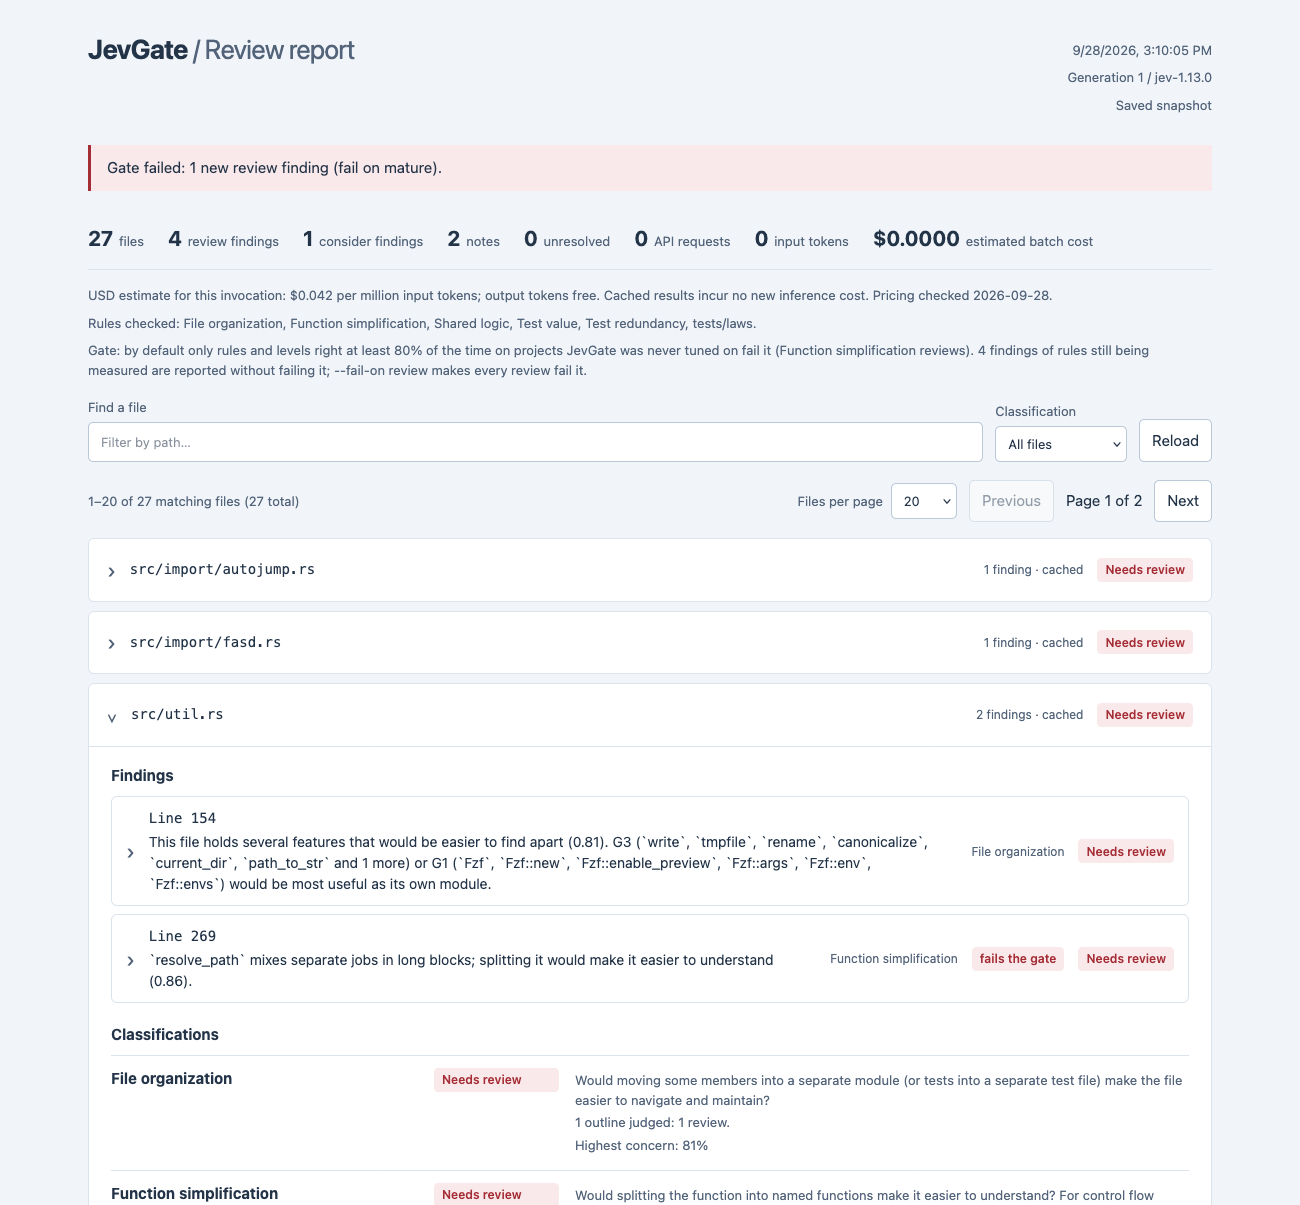
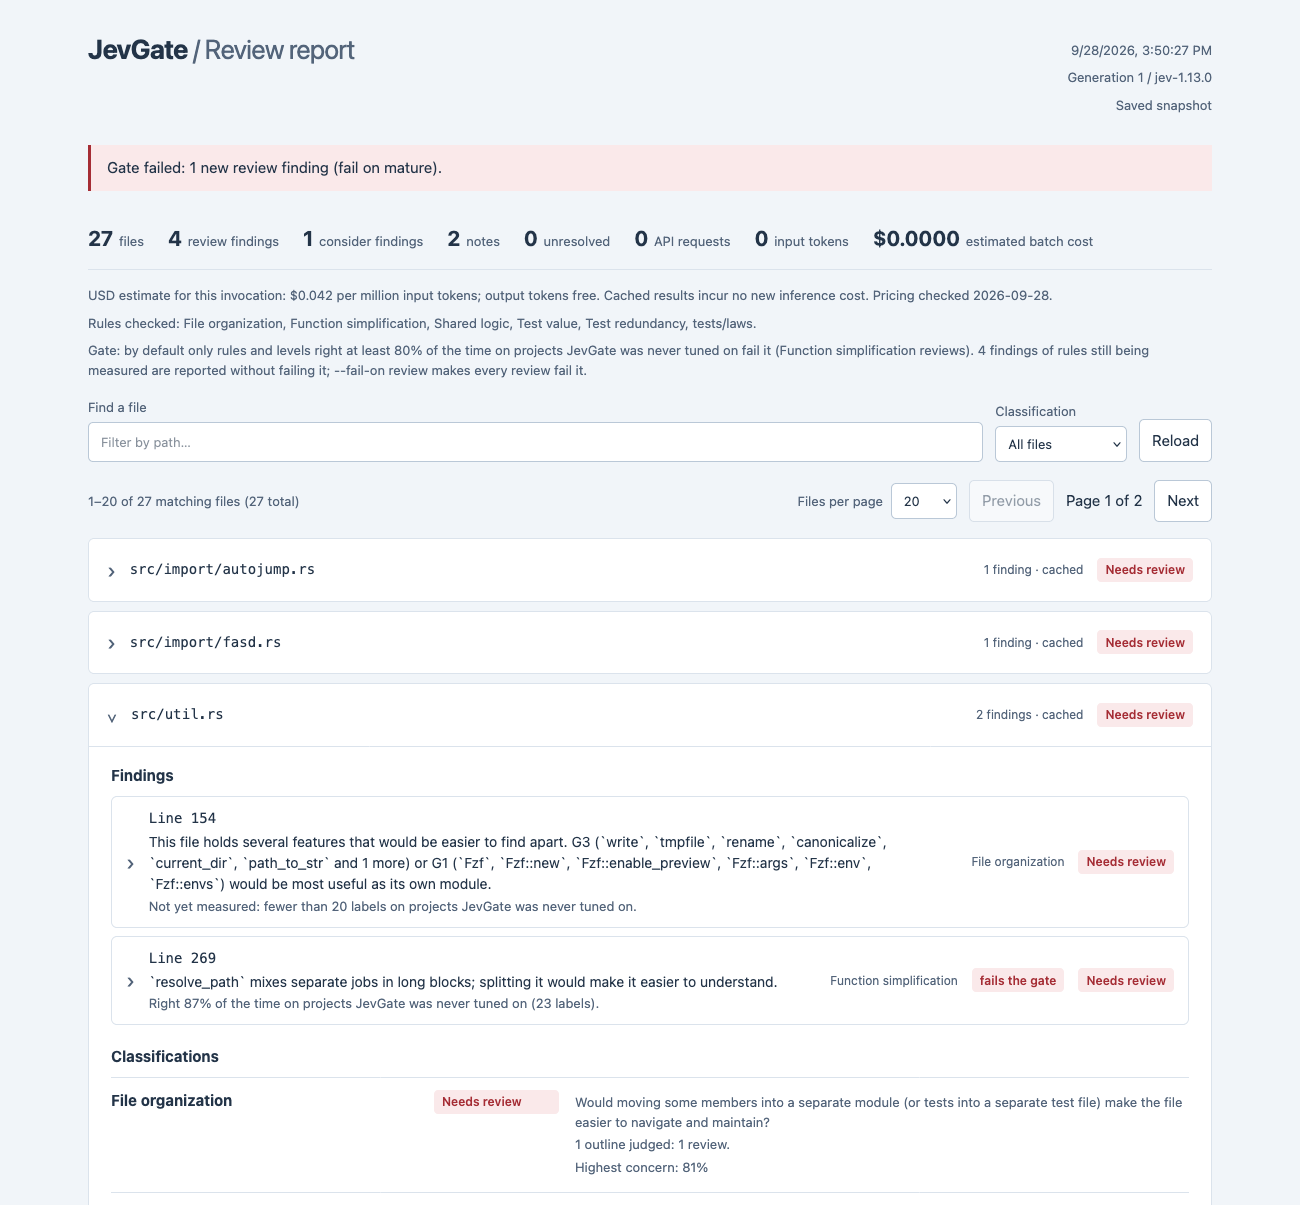
Show 0.28's output in the README and link the accuracy page
The README's images showed 0.26's output, whose messages end in a probability; 0.28 ends each review and consider with how often findings of its rule and level were right. Both images are regenerated from this version's build, replayed from the corpus's answer cache on zoxide at 09a18b4 (0 requests), with the scripts in plans/readme-images. The README and the site's introduction link the accuracy page after the blocking level's precision and give the check on 27 public projects (80 of 93).

diff --git a/README.md b/README.md
@@ -7,11 +7,11 @@
 
 **JevGate is a code-review gate. It asks small, precise questions about your code and turns the answers into findings you can act on.**
 
-JevGate parses your repository locally and builds small units of evidence: a function, a file outline, a pair of copies, a test, a documentation section. It asks [TypeSafe Jev](https://docs.typesafe.ai) short, typed questions about each one. Code, not a chat model, combines the answers into a verdict. Each finding has a location, how often findings like it were right and a concrete next step, so an agent or CI job can act on it and a person can check it quickly. By default the gate fails only on the rules and levels measured right at least 80% of the time on projects JevGate was never tuned on: among the default rules, function-simplification reviews, right 20 of the 23 times they were labeled there (87%).
+JevGate parses your repository locally and builds small units of evidence: a function, a file outline, a pair of copies, a test, a documentation section. It asks [TypeSafe Jev](https://docs.typesafe.ai) short, typed questions about each one. Code, not a chat model, combines the answers into a verdict. Each finding has a location, how often findings like it were right and a concrete next step, so an agent or CI job can act on it and a person can check it quickly. By default the gate fails only on the rules and levels measured right at least 80% of the time on projects JevGate was never tuned on: among the default rules, function-simplification reviews, right 20 of the 23 times they were labeled there (87%), and 80 of 93 times on 27 more public projects ([accuracy](https://tech-byte-frontier.github.io/jevgate/accuracy.html)).
 
-![JevGate's terminal output on zoxide: the gate fails on 1 function-simplification review (a function mixing separate jobs); 3 more reviews (a file holding several features, two sets of importers repeating the same steps) and a consider (branching that hides a main path) are reported without failing it, since their rules and levels are still being measured](site/src/images/terminal.svg)
+![JevGate's terminal output on zoxide: the gate fails on 1 function-simplification review (a function mixing separate jobs); 3 more reviews (a file holding several features, two sets of importers repeating the same steps) and a consider (branching that hides a main path) are reported without failing it, since their rules and levels are still being measured; each finding ends with how often findings of its rule and level were right](site/src/images/terminal.svg)
 
-JevGate 0.26.0 on [zoxide](https://github.com/ajeetdsouza/zoxide/tree/09a18b4424b3f1033094ffd97da6d47585e38259), rerun from its answer cache, so it cost nothing.
+JevGate 0.28.0 on [zoxide](https://github.com/ajeetdsouza/zoxide/tree/09a18b4424b3f1033094ffd97da6d47585e38259), rerun from its answer cache, so it cost nothing.
 
 **[Documentation](https://tech-byte-frontier.github.io/jevgate/)** · [Rules](https://tech-byte-frontier.github.io/jevgate/reference/rules.html) · [Configuration](https://tech-byte-frontier.github.io/jevgate/configuration.html) · [CI](https://tech-byte-frontier.github.io/jevgate/ci.html) · [Troubleshooting](https://tech-byte-frontier.github.io/jevgate/troubleshooting.html) · [Changelog](CHANGELOG.md)
 
@@ -50,7 +50,7 @@ jevgate init --agent claude               # check each edit and turn of Claude C
 
 `jevgate check --report` writes the same findings to a local dashboard you can filter by path and classification, with each file's findings, undecided units and the answers behind them:
 
-![JevGate's HTML report on zoxide: the gate's result and what fails it by default, totals for files, findings, notes and cost, then a list of files by classification, with src/util.rs open to show its two review findings, the one that fails the gate marked, and how each rule classified the file](site/src/images/report.png)
+![JevGate's HTML report on zoxide: the gate's result and what fails it by default, totals for files, findings, notes and cost, then a list of files by classification, with src/util.rs open to show its two review findings, the one that fails the gate marked, each with how often findings like it were right, and how each rule classified the file](site/src/images/report.png)
 
 `jevgate --help` gives the workflow, exit codes, files and environment, and `jevgate check --help` explains each flag and the JSON report. In a coding agent, JevGate's hooks give the agent each edit's findings and keep it working while findings fail the gate; a Claude Code plugin bundles them with the MCP server, `jevgate mcp` ([coding agents](https://tech-byte-frontier.github.io/jevgate/coding-agents.html)).
 

diff --git a/site/src/introduction.md b/site/src/introduction.md
@@ -2,7 +2,7 @@
 
 **JevGate is a code-review gate. It asks small, precise questions about your code and turns the answers into findings you can act on.**
 
-JevGate parses your repository locally and builds small units of evidence: a function, a file outline, a pair of copies, a test, a documentation section. It asks [TypeSafe Jev](https://docs.typesafe.ai) short, typed questions about each one. Code, not a chat model, combines the answers into a verdict. Each finding has a location, how often findings like it were right and a concrete next step, so an agent or CI job can act on it and a person can check it quickly. By default the gate fails only on the rules and levels measured right at least 80% of the time on projects JevGate was never tuned on: among the default rules, function-simplification reviews, right 20 of the 23 times they were labeled there (87%).
+JevGate parses your repository locally and builds small units of evidence: a function, a file outline, a pair of copies, a test, a documentation section. It asks [TypeSafe Jev](https://docs.typesafe.ai) short, typed questions about each one. Code, not a chat model, combines the answers into a verdict. Each finding has a location, how often findings like it were right and a concrete next step, so an agent or CI job can act on it and a person can check it quickly. By default the gate fails only on the rules and levels measured right at least 80% of the time on projects JevGate was never tuned on: among the default rules, function-simplification reviews, right 20 of the 23 times they were labeled there (87%), and 80 of 93 times on 27 more public projects ([accuracy](accuracy.md)).
 
 ```text
 JevGate: consider · gate passed · 42 files · 118 API requests · 263410 input tokens · ~$0.0111
